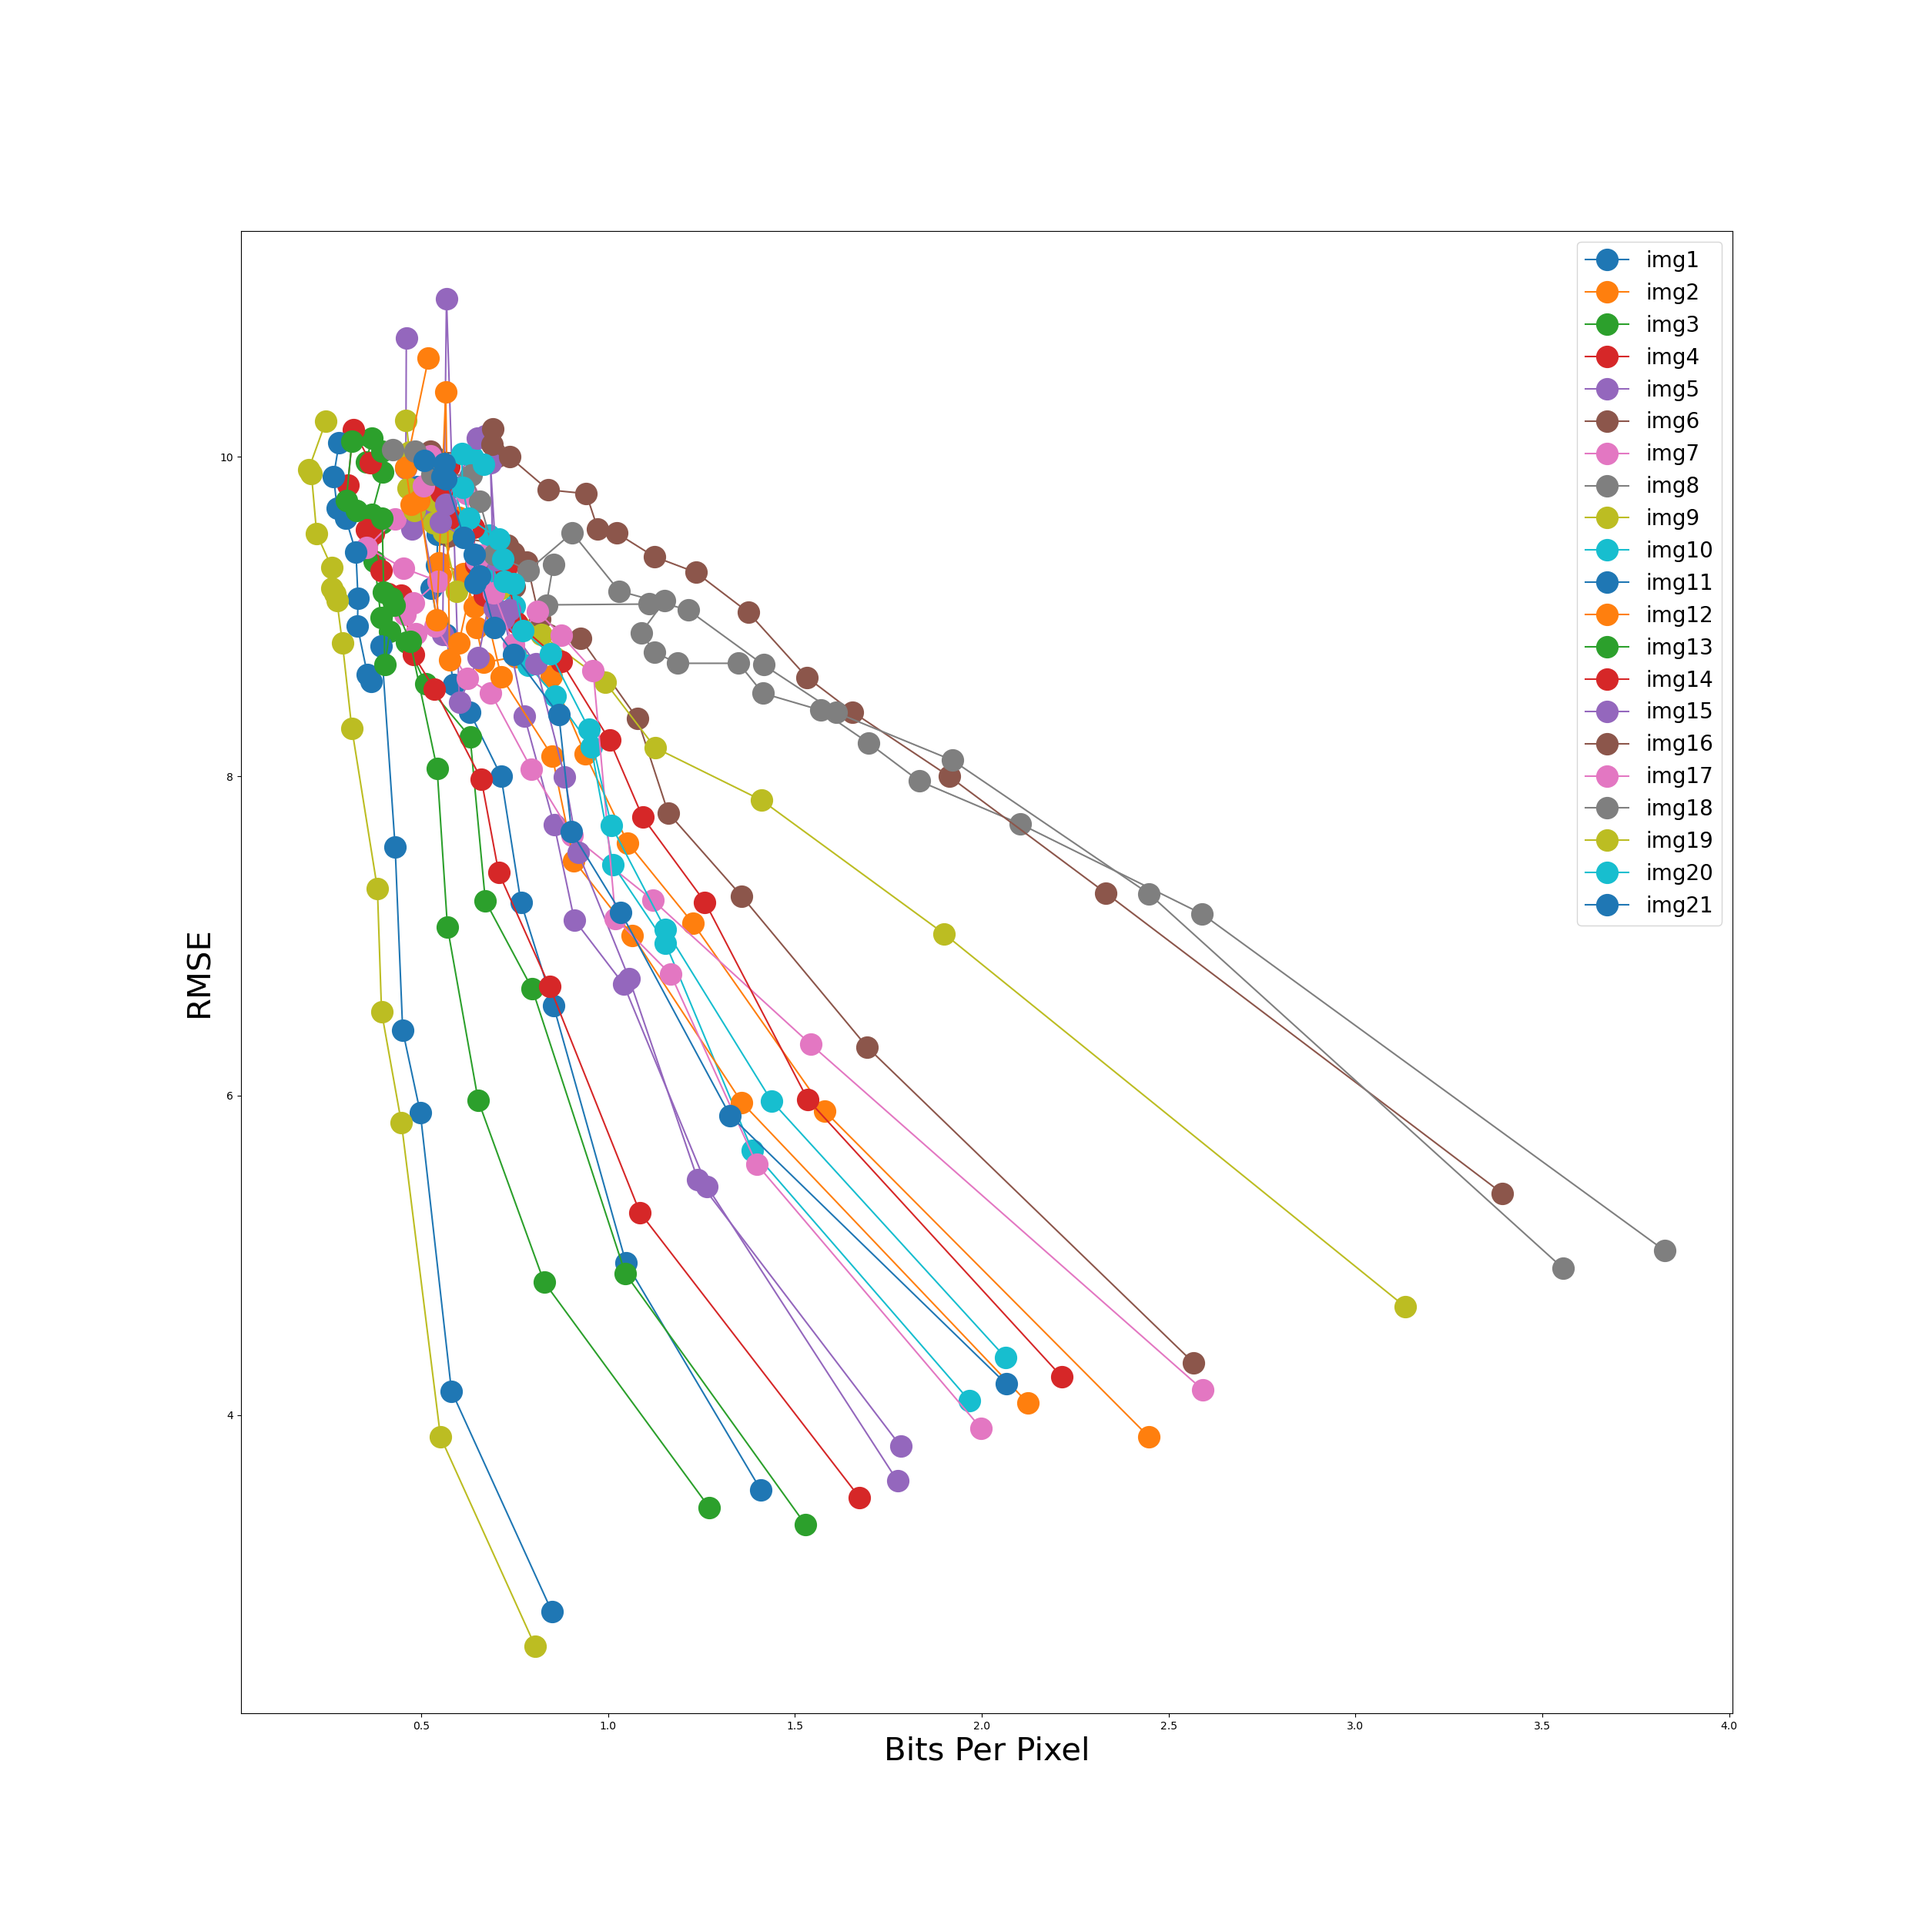
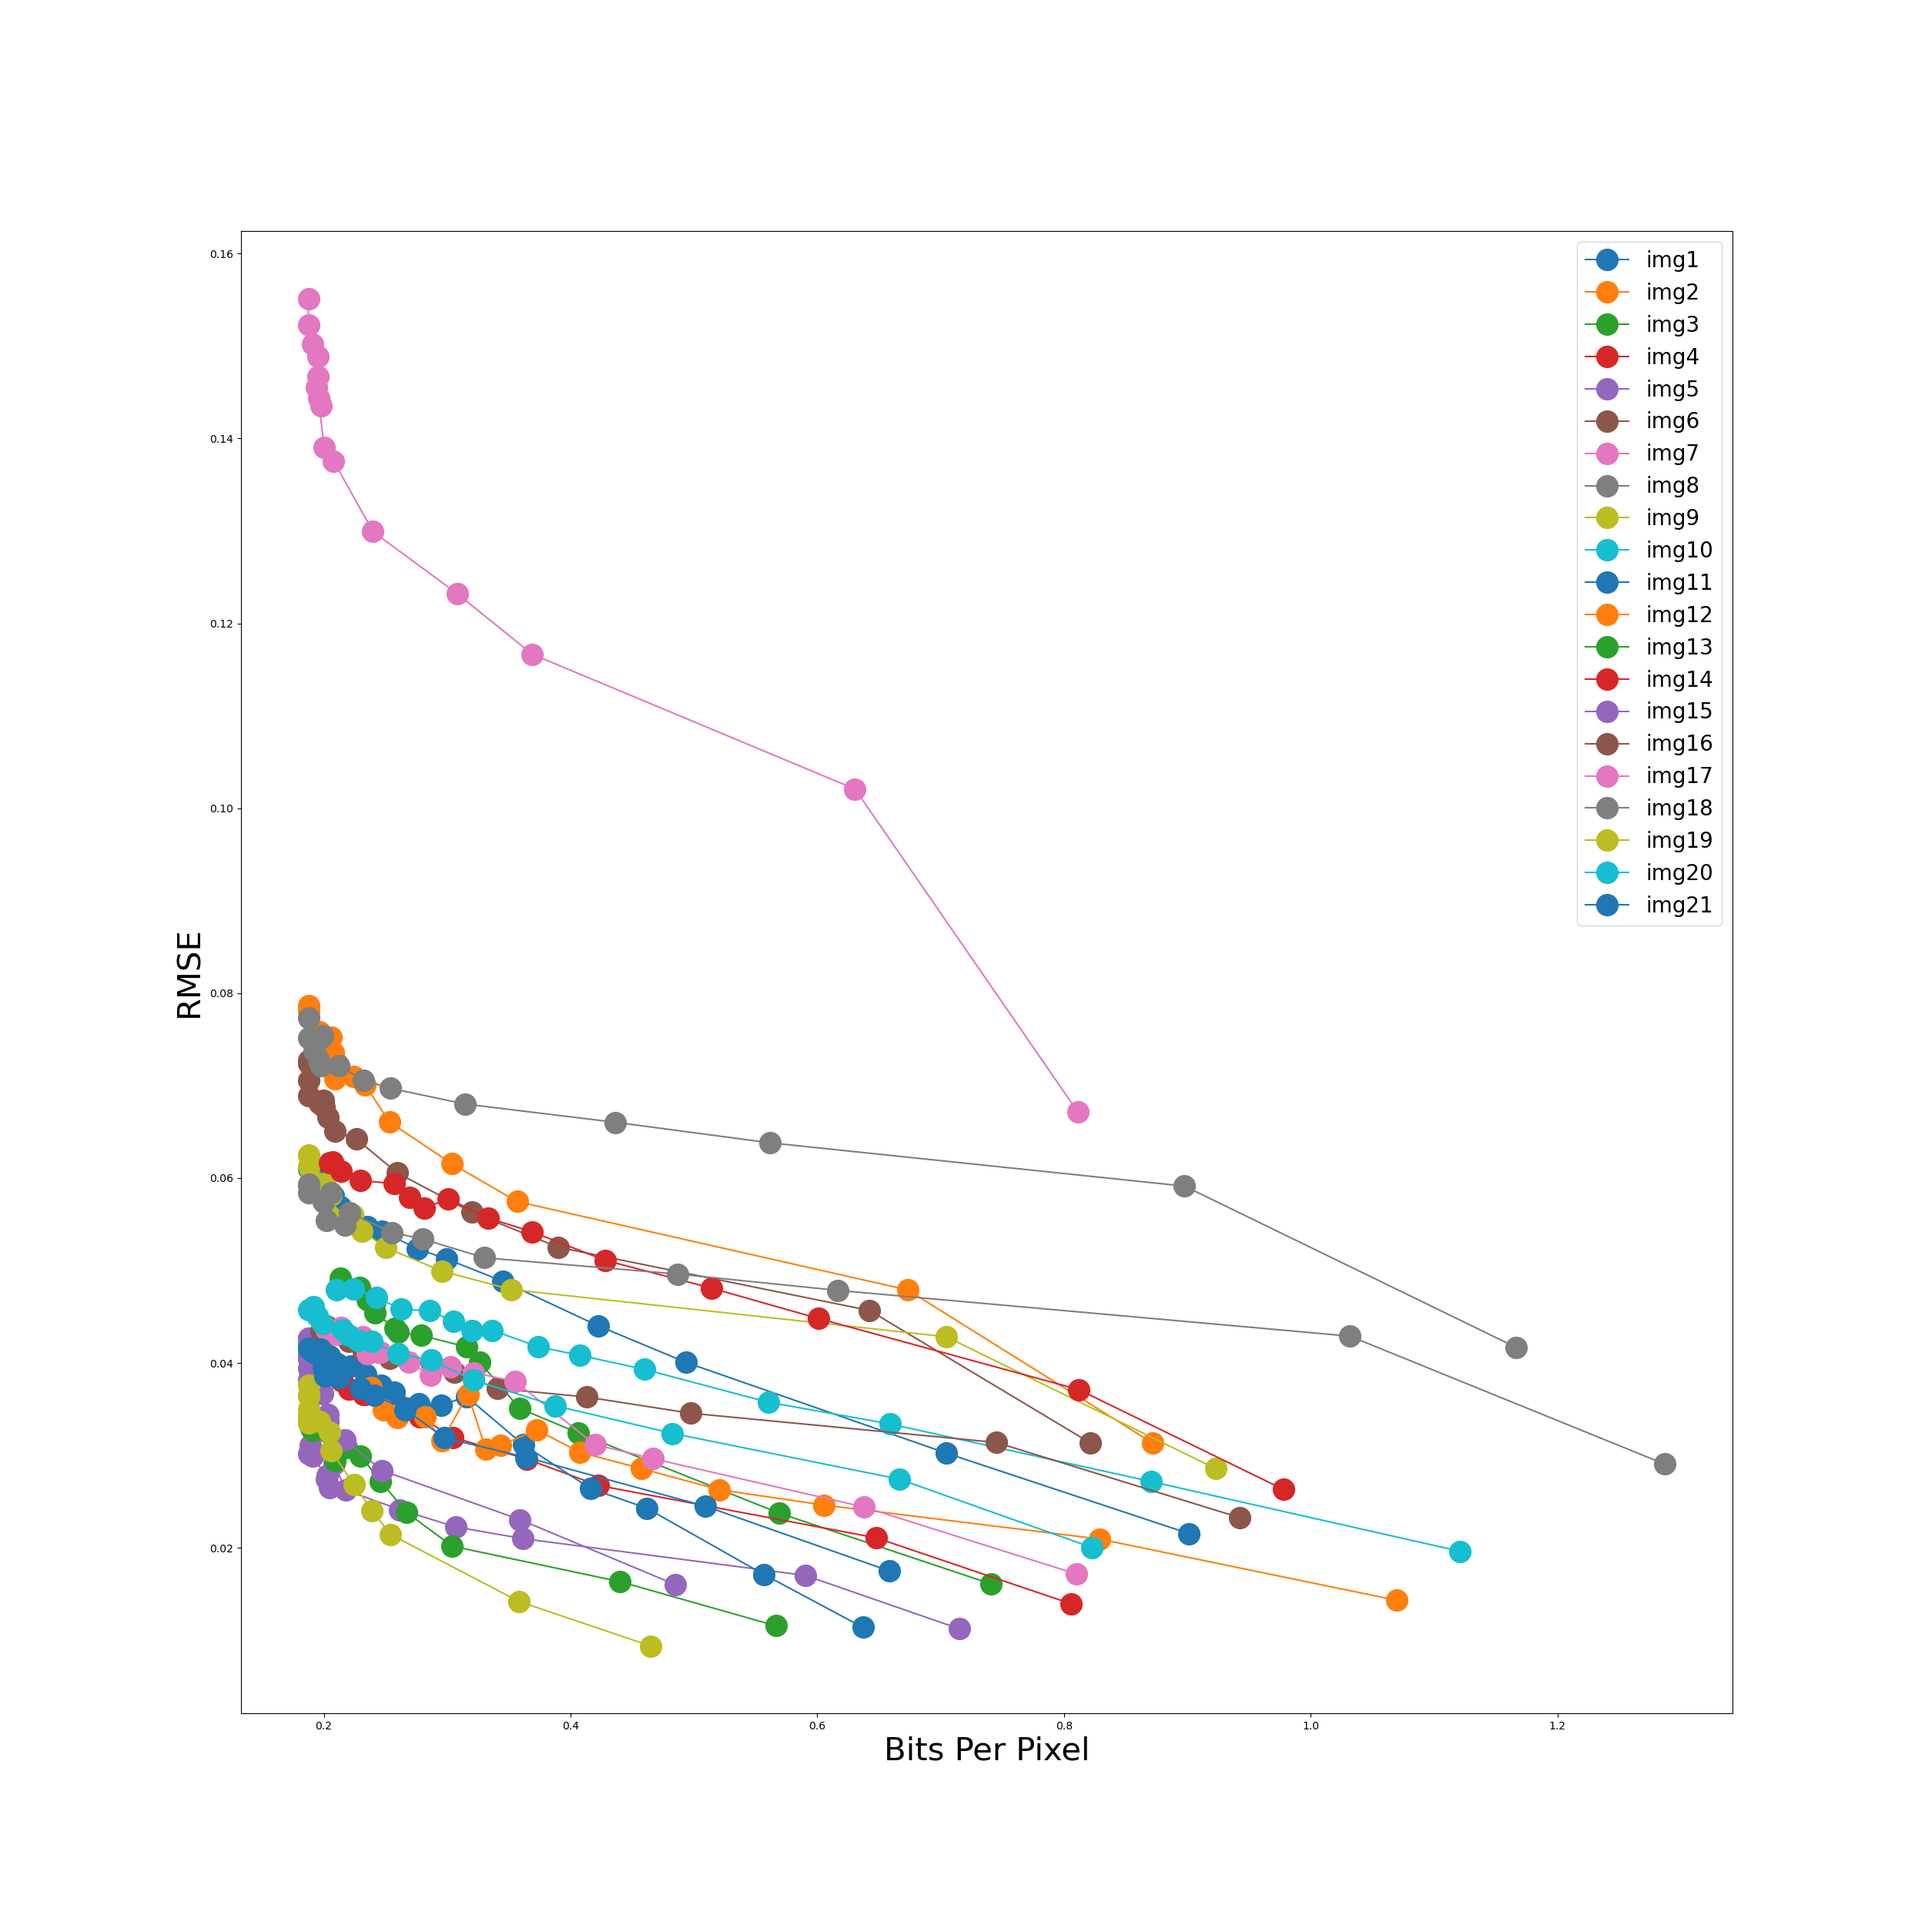
Added PCA and modified RMSE & BPP

diff --git a/Project/PCA/pca-compression.py b/Project/PCA/pca-compression.py
@@ -1,6 +1,7 @@
 import numpy as np
 import matplotlib.pyplot as plt
 from skimage import io, color
+from sklearn.decomposition import PCA
 import os
 import glob
 
@@ -17,8 +18,8 @@ def compress_block_pca(block, num_components):
     - block_compressed: Reconstructed block after PCA compression.
     - variance_explained: Percentage of variance explained by the retained components.
     """
-    # Step 1: Mean normalization
-    mean_block = np.mean(block, axis=1, keepdims=True)
+
+    mean_block = np.mean(block, axis=0, keepdims=True)
     centered_block = block - mean_block
 
     # Step 2: Compute the covariance matrix
@@ -26,6 +27,8 @@ def compress_block_pca(block, num_components):
 
     # Step 3: Compute eigenvalues and eigenvectors
     eigenvalues, eigenvectors = np.linalg.eigh(covariance_matrix)
+    # print(eigenvalues)
+    # print("-----------------------------")
 
     # Step 4: Sort eigenvalues and eigenvectors in descending order
     sorted_indices = np.argsort(eigenvalues)[::-1]
@@ -41,13 +44,10 @@ def compress_block_pca(block, num_components):
     # Step 7: Reconstruct the block
     block_compressed = np.dot(principal_components, transformed_data) + mean_block
 
-    # Calculate variance explained
-    variance_explained = np.sum(eigenvalues[:num_components]) / np.sum(eigenvalues)
-
-    return block_compressed, variance_explained
+    return block_compressed
 
 # applying PCA on the every block of the image
-def compress_image_pca(image, num_components, block_size=8):
+def compress_image_pca(image, num_components, block_size=16):
     """
     Compress a grayscale image using PCA.
 
@@ -73,26 +73,31 @@ def compress_image_pca(image, num_components, block_size=8):
                 continue
 
             # Step 2: Apply PCA on the block
-            block_compressed, _ = compress_block_pca(block, num_components)
+            block_compressed = compress_block_pca(block, num_components)
 
             # Step 3: Reconstruct the block
             compressed_image[i:i+block_size, j:j+block_size] = block_compressed
+
+
 
     return compressed_image
 
 #calculating rmse between two images
 def rmse(imageA, imageB):
-    return np.sqrt(np.mean((imageA - imageB) ** 2))
+    sum_sq = np.sum((imageA.astype("float")) ** 2)
+    forbenius_norm = np.sqrt(sum_sq / float(imageA.shape[0] * imageA.shape[1]))
+    return np.sqrt(np.mean((imageA - imageB) ** 2))/forbenius_norm
+
 
 # calculating bpp for the compressed image
-def bpp(image_path, img_name, num_components, class_name):
-    compressed_image = io.imread(f"output/compressed/{class_name}/{img_name}/{num_components}.png")
-    compressed_image = compressed_image.astype(float)
+# def bpp(image_path, img_name, num_components, class_name):
+#     compressed_image = io.imread(f"output/compressed/{class_name}/{img_name}/{num_components}.png")
+#     compressed_image = compressed_image.astype(float)
 
-    # Calculate the number of bits per pixel
-    bpp = (os.path.getsize(f"output/compressed/{class_name}/{img_name}/{num_components}.png") * 8) / (compressed_image.shape[0] * compressed_image.shape[1])
+#     # Calculate the number of bits per pixel
+#     bpp = (os.path.getsize(f"output/compressed/{class_name}/{img_name}/{num_components}.png") * 8) / (compressed_image.shape[0] * compressed_image.shape[1])
 
-    return bpp
+#     return bpp
 
 # Load and preprocess the image
 def main(image_path, img_name, num_components, class_name):
@@ -106,6 +111,10 @@ def main(image_path, img_name, num_components, class_name):
     image = image.astype(np.uint8)
     compressed_image = compressed_image.astype(np.uint8)
 
+    total_pixels = image.shape[0] * image.shape[1]
+    num_blocks = np.ceil(image.shape[0] / 16) * np.ceil(image.shape[1] / 16)
+    bpp = ((2*num_components + 1) * num_blocks / total_pixels)*16*8
+
     # saving the compressed image and original image
     os.makedirs(f"output/compressed/{class_name}/{img_name}", exist_ok=True)
     os.makedirs(f"output/original/{class_name}", exist_ok=True)
@@ -113,9 +122,11 @@ def main(image_path, img_name, num_components, class_name):
     io.imsave(f"output/compressed/{class_name}/{img_name}/{num_components}.png", compressed_image)
     io.imsave(f"output/original/{class_name}/{img_name}.png", image)
 
+    return bpp
+
 if __name__ == "__main__":
     imgs_path = "../Microsoft-Database/pca-gray/"
-    num_components = [30, 40, 50, 60, 70, 80, 90]
+    num_components = [1,2,4,8]
     
     buildings = glob.glob(imgs_path + "buildings/*.png")    
 
@@ -125,9 +136,10 @@ if __name__ == "__main__":
         bpp_buildings = []
         rmse_buildings = []
         for num in num_components:
-            main(img_path, img_name, num, "buildings")
-            bpp_buildings.append(bpp(img_path, img_name, num, "buildings"))
+            bpp = main(img_path, img_name, num, "buildings")
+            bpp_buildings.append(bpp)
             rmse_buildings.append(rmse(io.imread(f"output/original/buildings/{img_name}.png"), io.imread(f"output/compressed/buildings/{img_name}/{num}.png")))
+
         plt.plot(bpp_buildings, rmse_buildings, label=f"img{i+1}", marker='o', markersize=30)
     plt.xlabel("BPP", fontsize=40)
     plt.ylabel("RMSE", fontsize=40)

diff --git a/Project/Advance-imlementation/YCbCr-compression.py b/Project/Advance-imlementation/YCbCr-compression.py
@@ -50,7 +50,9 @@ def ycbcr2bgr(img):
 
 def calculate_rmse(original, compressed):
     """Compute the Root Mean Squared Error (RMSE) between two images."""
-    return np.sqrt(np.mean((original - compressed) ** 2))
+    sum_sq = np.sum((original.astype("float")) ** 2)
+    forbenius_norm = np.sqrt(sum_sq / float(original.shape[0] * original.shape[1]))
+    return np.sqrt(np.mean((original - compressed) ** 2))/forbenius_norm
 
 
 def calculate_bpp(file_size_bytes, image_shape):
@@ -421,11 +423,11 @@ def decode_jpeg(hf_stream, hf_tree, image_dims, q_table):
     return ret_image
 
 
-def rmse_bpp(original, compressed, path):
-    """Compute the Root Mean Squared Error (RMSE) between two images."""
-    rmse = calculate_rmse(original, compressed)
-    bpp = calculate_bpp(os.path.getsize(path), original.shape)
-    return bpp, rmse
+# def rmse_bpp(original, compressed, path):
+#     """Compute the Root Mean Squared Error (RMSE) between two images."""
+#     rmse = calculate_rmse(original, compressed)
+#     bpp = calculate_bpp(os.path.getsize(path), original.shape)
+#     return bpp, rmse
 
 
 def downsample(img):
@@ -469,7 +471,9 @@ def jpeg_compression(img, q_table, output_dir="output/compressed_imgs"):
     y, cb_down, cr_down = downsample(img_ycbcr)
 
     # Process each quality factor
-    metrics = []
+    # metrics = []
+    bpps = []
+    rmses = []
     for q_factor, q_table in q_table.items():
         print(f"\tCompressing image with quality factor {q_factor}...")
         compressed_channels = []
@@ -500,10 +504,14 @@ def jpeg_compression(img, q_table, output_dir="output/compressed_imgs"):
         cv2.imwrite(path, compressed)
 
         # Calculate metrics
-        bpp, rmse = rmse_bpp(img, compressed, path)
-        metrics.append((bpp, rmse))
+        # bpp, rmse = rmse_bpp(img, compressed, path)
+        bpp = calculate_bpp(len(hf_stream), img.shape)
+        rmse = calculate_rmse(img, compressed)
+        bpps.append(bpp)
+        rmses.append(rmse)
 
-    return metrics
+
+    return bpps, rmses
 
 
 
@@ -536,8 +544,8 @@ def main():
         cv2.imwrite(f"{original_path}/{img_name}.jpg", img)
         path_to_com_img = f"{img_path}/{img_name}"
         os.makedirs(path_to_com_img, exist_ok=True)
-        metrics = jpeg_compression(img, q_tables, path_to_com_img)
-        bpps, rmses = zip(*metrics)
+        bpps,rmses = jpeg_compression(img, q_tables, path_to_com_img)
+        # bpps, rmses = zip(*metrics)
         plt.plot(bpps, rmses, label=img_name, marker="o", markersize=20)
 
     print("Prcoessing completed!")

diff --git a/Project/Basic-implementation/basic.py b/Project/Basic-implementation/basic.py
@@ -24,7 +24,9 @@ BASE_QTABLE = np.array(
 
 def calculate_rmse(original, compressed):
     """Compute the Root Mean Squared Error (RMSE) between two images."""
-    return np.sqrt(np.mean((original - compressed) ** 2))
+    sum_sq = np.sum((original.astype("float")) ** 2)
+    forbenius_norm = np.sqrt(sum_sq / float(original.shape[0] * original.shape[1]))
+    return np.sqrt(np.mean((original - compressed) ** 2))/forbenius_norm
 
 
 def calculate_bpp(file_size_bytes, image_shape):
@@ -416,7 +418,8 @@ def rmse_bpp(original, q_tables, image_dims, output_dir):
         decoded = decode_jpeg(hf_stream, hf_tree, dims, q_table)
         path = os.path.join(output_dir, f"{q_factor}.jpg")
         mpimg.imsave(path, decoded, cmap="gray")
-        size = os.path.getsize(path)
+        # size = os.path.getsize(path)
+        size = len(hf_stream)
         rmse = calculate_rmse(original, decoded)
         bpp = calculate_bpp(size, image_dims)
 
